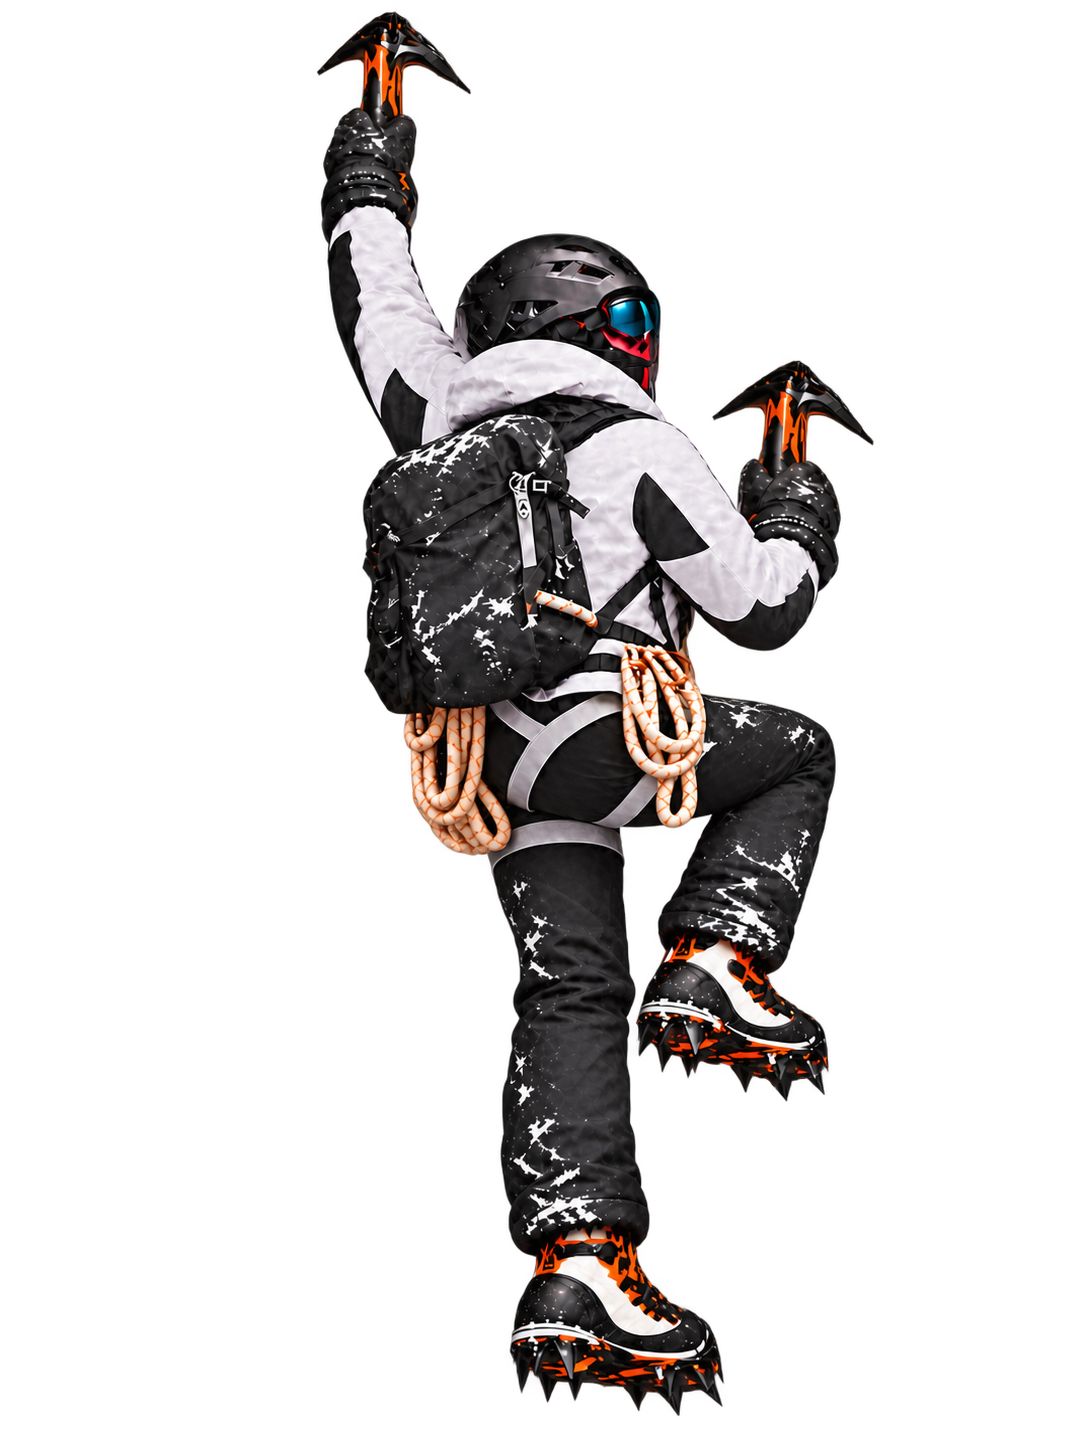
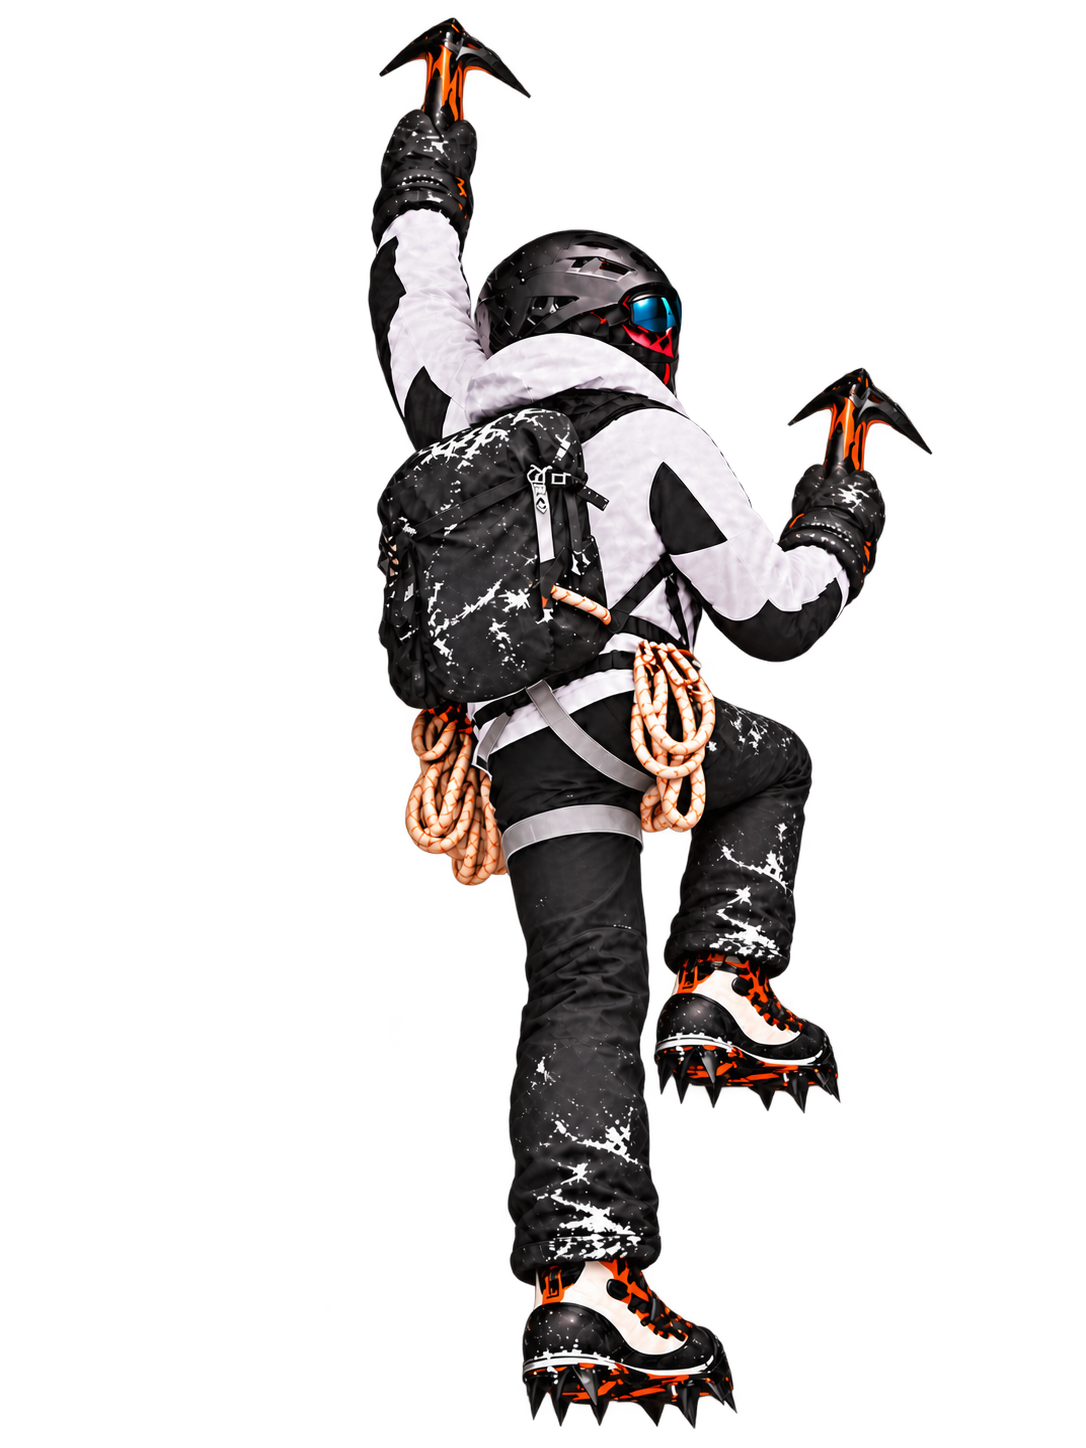
Add intermediate Ascent leg poses and hold settled stance

Changed region(s): [[0.2735, 0.0, 0.8508, 0.9945]]

diff --git a/_includes/expedition.html b/_includes/expedition.html
@@ -22,7 +22,7 @@
         <ellipse class="expedition-contact-shadow" data-expedition-contact rx="17" ry="5" filter="url(#expedition-contact-blur)" />
         <g class="expedition-climber" data-expedition-climber>
           <svg x="-54" y="-106" width="88" height="117" viewBox="0 0 400 533" overflow="visible">
-            <image data-climber-frame-primary href="{{ '/assets/media/ascent-climber-frame-01.webp' | relative_url }}?v=ascent-14" width="400" height="533" />
+            <image data-climber-frame-primary href="{{ '/assets/media/ascent-climber-frame-01.webp' | relative_url }}?v=ascent-15" width="400" height="533" />
           </svg>
         </g>
       </g>

diff --git a/_layouts/default.html b/_layouts/default.html
@@ -19,7 +19,7 @@
   <script src="{{ '/assets/js/site.js' | relative_url }}" defer></script>
   <script src="{{ '/assets/js/experience.js' | relative_url }}" defer></script>
   <script src="{{ '/assets/js/contact.js' | relative_url }}" defer></script>
-  {% if page.url == '/journey/' %}<script src="{{ '/assets/js/expedition.js' | relative_url }}?v=ascent-14" defer></script>{% endif %}
+  {% if page.url == '/journey/' %}<script src="{{ '/assets/js/expedition.js' | relative_url }}?v=ascent-15" defer></script>{% endif %}
 </head>
 <body data-baseurl="{{ site.baseurl }}">
   {% include header.html %}

diff --git a/assets/js/expedition.js b/assets/js/expedition.js
@@ -16,7 +16,7 @@
   const climber = root.querySelector('[data-expedition-climber]');
   const primaryFrame = climber.querySelector('[data-climber-frame-primary]');
   const firstFrameUrl = primaryFrame.getAttribute('href');
-  const frameUrls = Array.from({ length: 10 }, (_, index) =>
+  const frameUrls = Array.from({ length: 13 }, (_, index) =>
     firstFrameUrl.replace(/01\.webp/, `${String(index + 1).padStart(2, '0')}.webp`));
   // Every complete-body image is registered to the same goggle position at
   // export time. Only one fully opaque pose is drawn at once: crossfading

diff --git a/PROJECT_STATUS.md b/PROJECT_STATUS.md
@@ -4,7 +4,7 @@ Updated: October 12, 2026 (America/Los_Angeles).
 
 ## Current state
 
-**The approved site design remains intact. The dedicated Ascent uses ten complete black-and-white mountaineer poses with alternating footwork.** The far-leg phase now bends toward the wall on the image right; both boot toes face right through the cycle. A single opaque full-body pose is shown at a time, so the climber no longer becomes translucent during handovers. One cycle still spans two entries, preserving scroll pace. The self-service Markdown workflow, original content, four navigation destinations, existing links and approved page structure remain intact. Earlier Firefox/WebKit results predate this latest refinement; their executables are unavailable in this environment. Nothing has been pushed, merged or deployed.
+**The approved site design remains intact. The dedicated Ascent now uses thirteen complete black-and-white mountaineer frames.** Three intermediate drawings break up the previously abrupt far-leg lowering, and a settled stance holds across two frames in place of the foot-turn-only pose. Both boots continue to point toward the image-right wall. A single opaque full-body pose is shown at a time; one cycle still spans two entries, preserving scroll pace. The self-service Markdown workflow, original content, four navigation destinations, existing links and approved page structure remain intact. Earlier Firefox/WebKit results predate this latest refinement; their executables are unavailable in this environment. Nothing has been pushed, merged or deployed.
 
 - Active repository: `C:/Users/super/Documents/ChatGPT/portfolio website remodel/portfolio-v2`.
 - Branch: `codex/portfolio-v2`, based on `da50b14` (`main`).
@@ -13,7 +13,16 @@ Updated: October 12, 2026 (America/Los_Angeles).
 - Local preview: `http://127.0.0.1:4173/`, serving production `_site` output.
 - Parent workspace `PROJECT_STATUS.md` points here. This is the canonical handoff.
 
-## October 12 right-facing, opaque pose correction — latest handoff
+## October 12 leg handover refinement — latest handoff
+
+- Completed: inserted three complete intermediate poses between the former 03 and 04 so the far knee and boot lower in stages instead of jumping directly to both boots down. Removed the former pose 05 that merely turned a foot. Repeated the settled stance for two frames. The cycle is now thirteen opaque frames over the same two-entry scroll interval. Kept the right-facing viewpoint, torso, arm sequence, mountain, scroll easing, content and layout. Regenerated the registered WebPs and bumped the Ascent cache version to `ascent-15`.
+- Currently in progress: none after committing this focused correction. The local preview remains branch-only.
+- Decisions: use complete drawings rather than separate rotating limb pieces; keep each pose fully opaque. Do not adopt intermediate candidates that turn a boot toward the viewer or distort the standing leg. `scripts/build_climber_frames.cjs` remains the deterministic 400 × 533 WebP exporter.
+- Known issues: the new far-leg descent is more gradual, but this is still an illustrated discrete-frame sequence, not video. The next near-leg takeoff after the brief hold is visible when scrubbing slowly; generated candidates to soften it were rejected for incorrect boot direction and body consistency. Tool/crampon contact is illustrative, not physically simulated. Real-device motion judgment, Firefox/WebKit runners, branch-only Linux CI and live custom-domain verification remain outstanding. Nothing has been pushed or merged.
+- Testing: Jekyll production build; thirteen-frame source contact sheet, 26-position rendered scroll sheet and desktop scene visually inspected; focused Ascent Chrome checks; full Chrome suite (94 routes, 132 responsive pages, 22 axe checks, six interaction groups, 10 experience groups, 11 editorial groups, 10 Ascent groups); site integrity (26 original files unchanged, nine post routes, 47 HTML pages, 1,688 local references); JavaScript syntax and Git whitespace checks. Local `/journey/` responds HTTP 200.
+- **Exact recommended next task:** review the thirteen-frame gait in the live `/journey/` preview, especially the 03→07 descent and 08→09 near-leg takeoff at slow and moderate scrolling. If the latter still looks abrupt, create a single coherent right-facing transition drawing with both boots pointing right and the support leg unchanged; reject boot-only rotations. Then restore Firefox/WebKit coverage, run branch-only Linux CI and verify the custom domain before considering any production merge.
+
+## October 12 right-facing, opaque pose correction — earlier handoff, superseded where noted above
 
 - Completed: replaced the six poses that needed right-facing leg or transition corrections with complete edited drawings. In the new far-leg phase, the knee folds toward the image-right wall behind the supporting shin, and both crampon toes point right. Kept the same outfit, rear-three-quarter viewpoint, mountain, camera path, route highlight, scroll easing and cycle speed. Removed the two-image opacity crossfade and now renders one complete opaque pose at a time. Re-exported all ten registered WebPs and bumped Ascent URLs to `ascent-14`.
 - Currently in progress: none after committing this handoff. The site is still a branch-only local preview, not a production release.

diff --git a/docs/ASCENT_ART.md b/docs/ASCENT_ART.md
@@ -9,8 +9,8 @@ The mountain backdrop, close ice wall and climber poses are original generated i
 - Foreground source: `assets/img/ascent-icewall-illustration.png`; responsive alpha WebP: `assets/media/ascent-icewall-800.webp` and `ascent-icewall-480.webp`, with `ascent-icewall-480.avif` on supported mobile browsers.
 - Earlier orange climber source: `assets/img/ascent-climber-frames.png`; its first transparent pose remains at `assets/media/ascent-climber-01.webp` for provenance, but is no longer loaded by the page. That sheet did not provide the current black-and-white frame sequence.
 - Earlier black-and-white climber source: `assets/img/ascent-climber-alpine.png` (1086 × 1448, transparent); optimized single pose: `assets/media/ascent-climber-alpine.webp`. It informed the current clothing, gear and view angle. The hinged raster-limb rig that cut up this painting was removed after it repeatedly produced broken-looking joints.
-- Current animation sources: ten individual transparent **complete figure** drawings in `assets/img/ascent-climber-sequence/pose-01.png` through `pose-10.png`. Each successive drawing was edited from a preceding whole pose, retaining the right-facing rear-three-quarter character and right-facing tools. The gait takes its restrained alternating hand/foot rhythm from the user-supplied [ladder-climbing animation reference](https://www.youtube.com/watch?v=d-m-HuN-PkU); no ladder appears on the site. Both legs and crampon boots are visible in every image. Earlier 2 × 2 sprite sheets are preserved in Git history. `npm run build:climber-frames` aligns the goggles and exports ten 400 × 533 WebPs. `node scripts/preview_climber_frames.cjs` and `node scripts/preview_climber_motion.cjs` produce visual QA contact sheets in `test-results/`.
-- The ten whole-body poses span **two** journal entries, retaining the approved scroll pace. The far-leg phase was redrawn so its knee bends toward the wall on image right and both boot toes remain right-facing throughout. Only one complete image is visible at a time; the whole-image crossfade was removed because it made the climber translucent. No separate arms, legs, jacket panels or gear are rotated or resized. The sequence was checked as a ten-frame contact sheet and at 20 positions in the rendered wall scene. This remains an illustrated sequence, not filmed or physically simulated climbing; discrete pose changes are still perceptible while scrubbing slowly. Reduced-motion holds the first pose. The outfit is unbranded black-and-white alpine technical gear. Asset/script URL version: `ascent-14`.
+- Current animation sources: thirteen individual transparent **complete figure** drawings in `assets/img/ascent-climber-sequence/pose-01.png` through `pose-13.png`. The intermediate drawings were edited from preceding whole poses, retaining the right-facing rear-three-quarter character and right-facing tools. The gait takes its restrained alternating hand/foot rhythm from the user-supplied [ladder-climbing animation reference](https://www.youtube.com/watch?v=d-m-HuN-PkU); no ladder appears on the site. Both legs and crampon boots are visible in every image. Earlier 2 × 2 sprite sheets are preserved in Git history. `npm run build:climber-frames` aligns the goggles and exports thirteen 400 × 533 WebPs. `node scripts/preview_climber_frames.cjs` and `node scripts/preview_climber_motion.cjs` produce visual QA contact sheets in `test-results/`.
+- The thirteen whole-body frames span **two** journal entries, retaining the approved scroll pace. Three new complete drawings break up the former hard transition from far boot raised to both boots down. The former foot-turn-only drawing was removed; frames 07 and 08 intentionally hold the same settled stance. Only one complete image is visible at a time; the whole-image crossfade remains removed because it made the climber translucent. No separate arms, legs, jacket panels or gear are rotated or resized. The sequence was checked as a frame contact sheet and at 26 positions in the rendered wall scene. This remains an illustrated sequence, not filmed or physically simulated climbing; discrete changes and the next leg takeoff are still perceptible while scrubbing slowly. Reduced-motion holds the first pose. The outfit is unbranded black-and-white alpine technical gear. Asset/script URL version: `ascent-15`.
 - The Home identity section reuses the existing Everest illustration through its 800 px WebP derivative. No new mountain asset was generated.
 
 Movement references: [Petzl's ice-climbing technique video](https://www.petzl.com/int/en/sport/tech-tips/basic-techniques/ice-climbing-technique---the-basics/Cascade-gestuelle_SPO_a771r000000PFoJAAW.html), [Petzl's Ice Climbing Basics access book](https://s3.amazonaws.com/Petzl_home_Prod/Accessbook/ACCESSBOOK-ICE-CLIMBING-EN-2018.pdf), and [REI's ice-climbing guidance](https://www.rei.com/learn/expert-advice/ice-climbing-waterfalls-alpine-walls.html) emphasize stable tool/foot placements and rising through the legs. These sources informed the illustration's rhythm; the individual drawn poses are not climbing instruction or a physical simulation.
